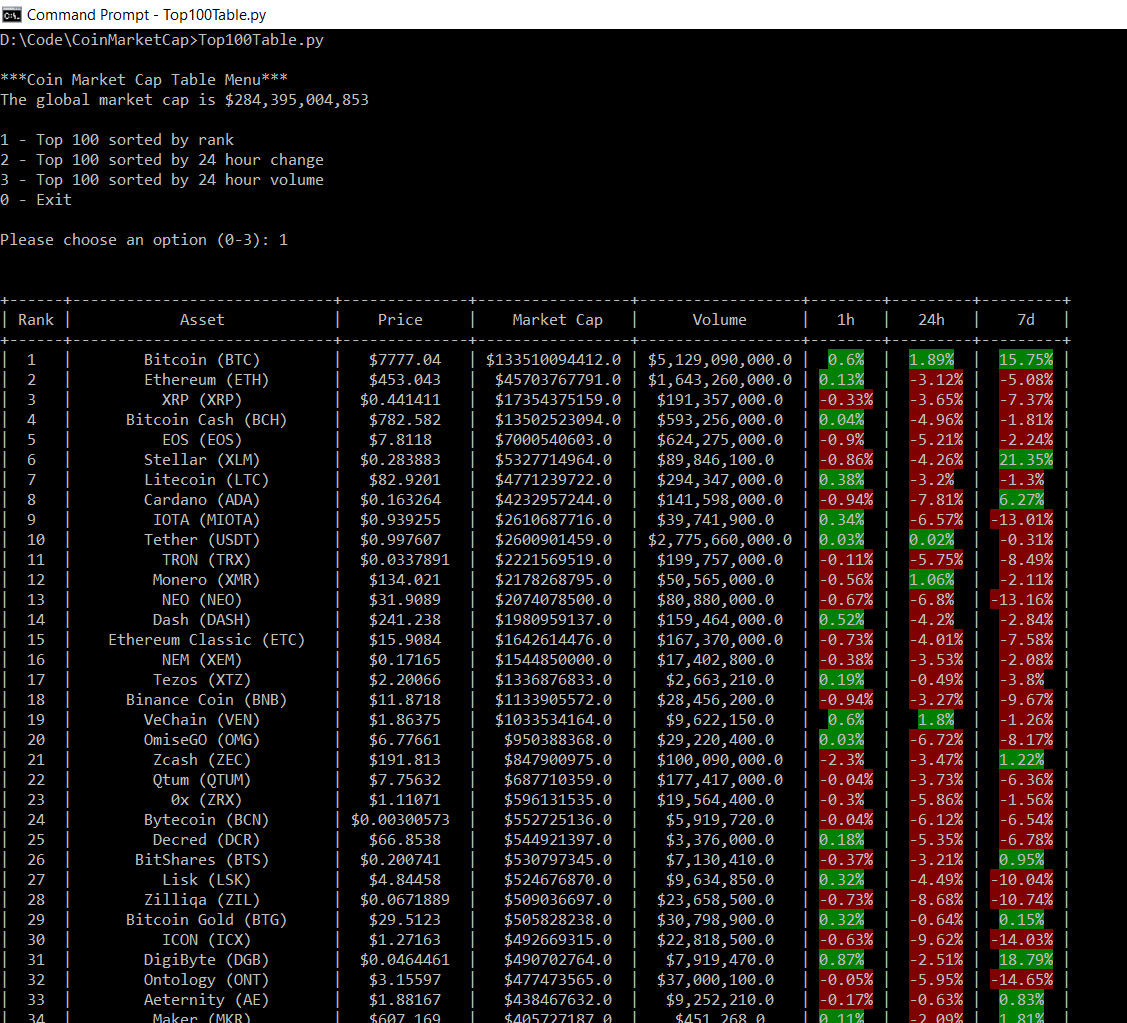
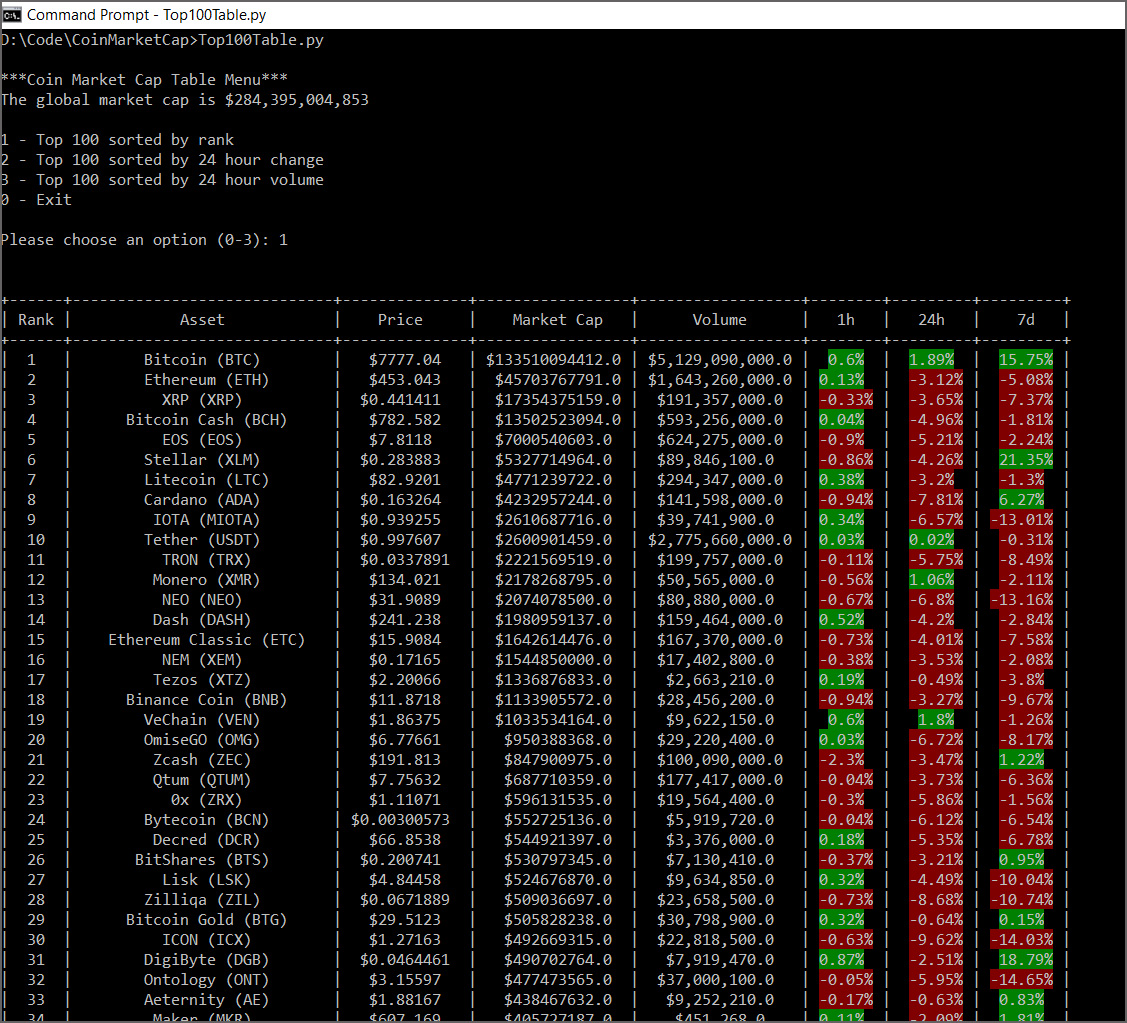
Added border to screenshot in Readme file.

Changed region(s): [[0.9938, 0.0, 1.0, 1.0], [0.0, 0.9697, 0.0311, 1.0], [0.0, 0.0, 0.0311, 0.0303]]

diff --git a/README.MD b/README.MD
@@ -2,8 +2,9 @@
 
 ### Python app that displays top 100 cryptocurrencies
 
-The user is given the choice to display the currencies in order of rank (on the Coin Market Cap site), by 24 hour change or by 24 hour volume.
+The user is given the choice to display the currencies in order of rank (on the Coin Market Cap site), 
+by 24 hour change or by 24 hour volume.
 
 Here is an image of the program execution:
 
-![image](https://user-images.githubusercontent.com/24645219/43116489-cc6aa462-8ebc-11e8-9d89-e663be0f2ab1.png)
+![image](https://user-images.githubusercontent.com/24645219/43116581-54689dc4-8ebd-11e8-9435-351f695af67d.png)
